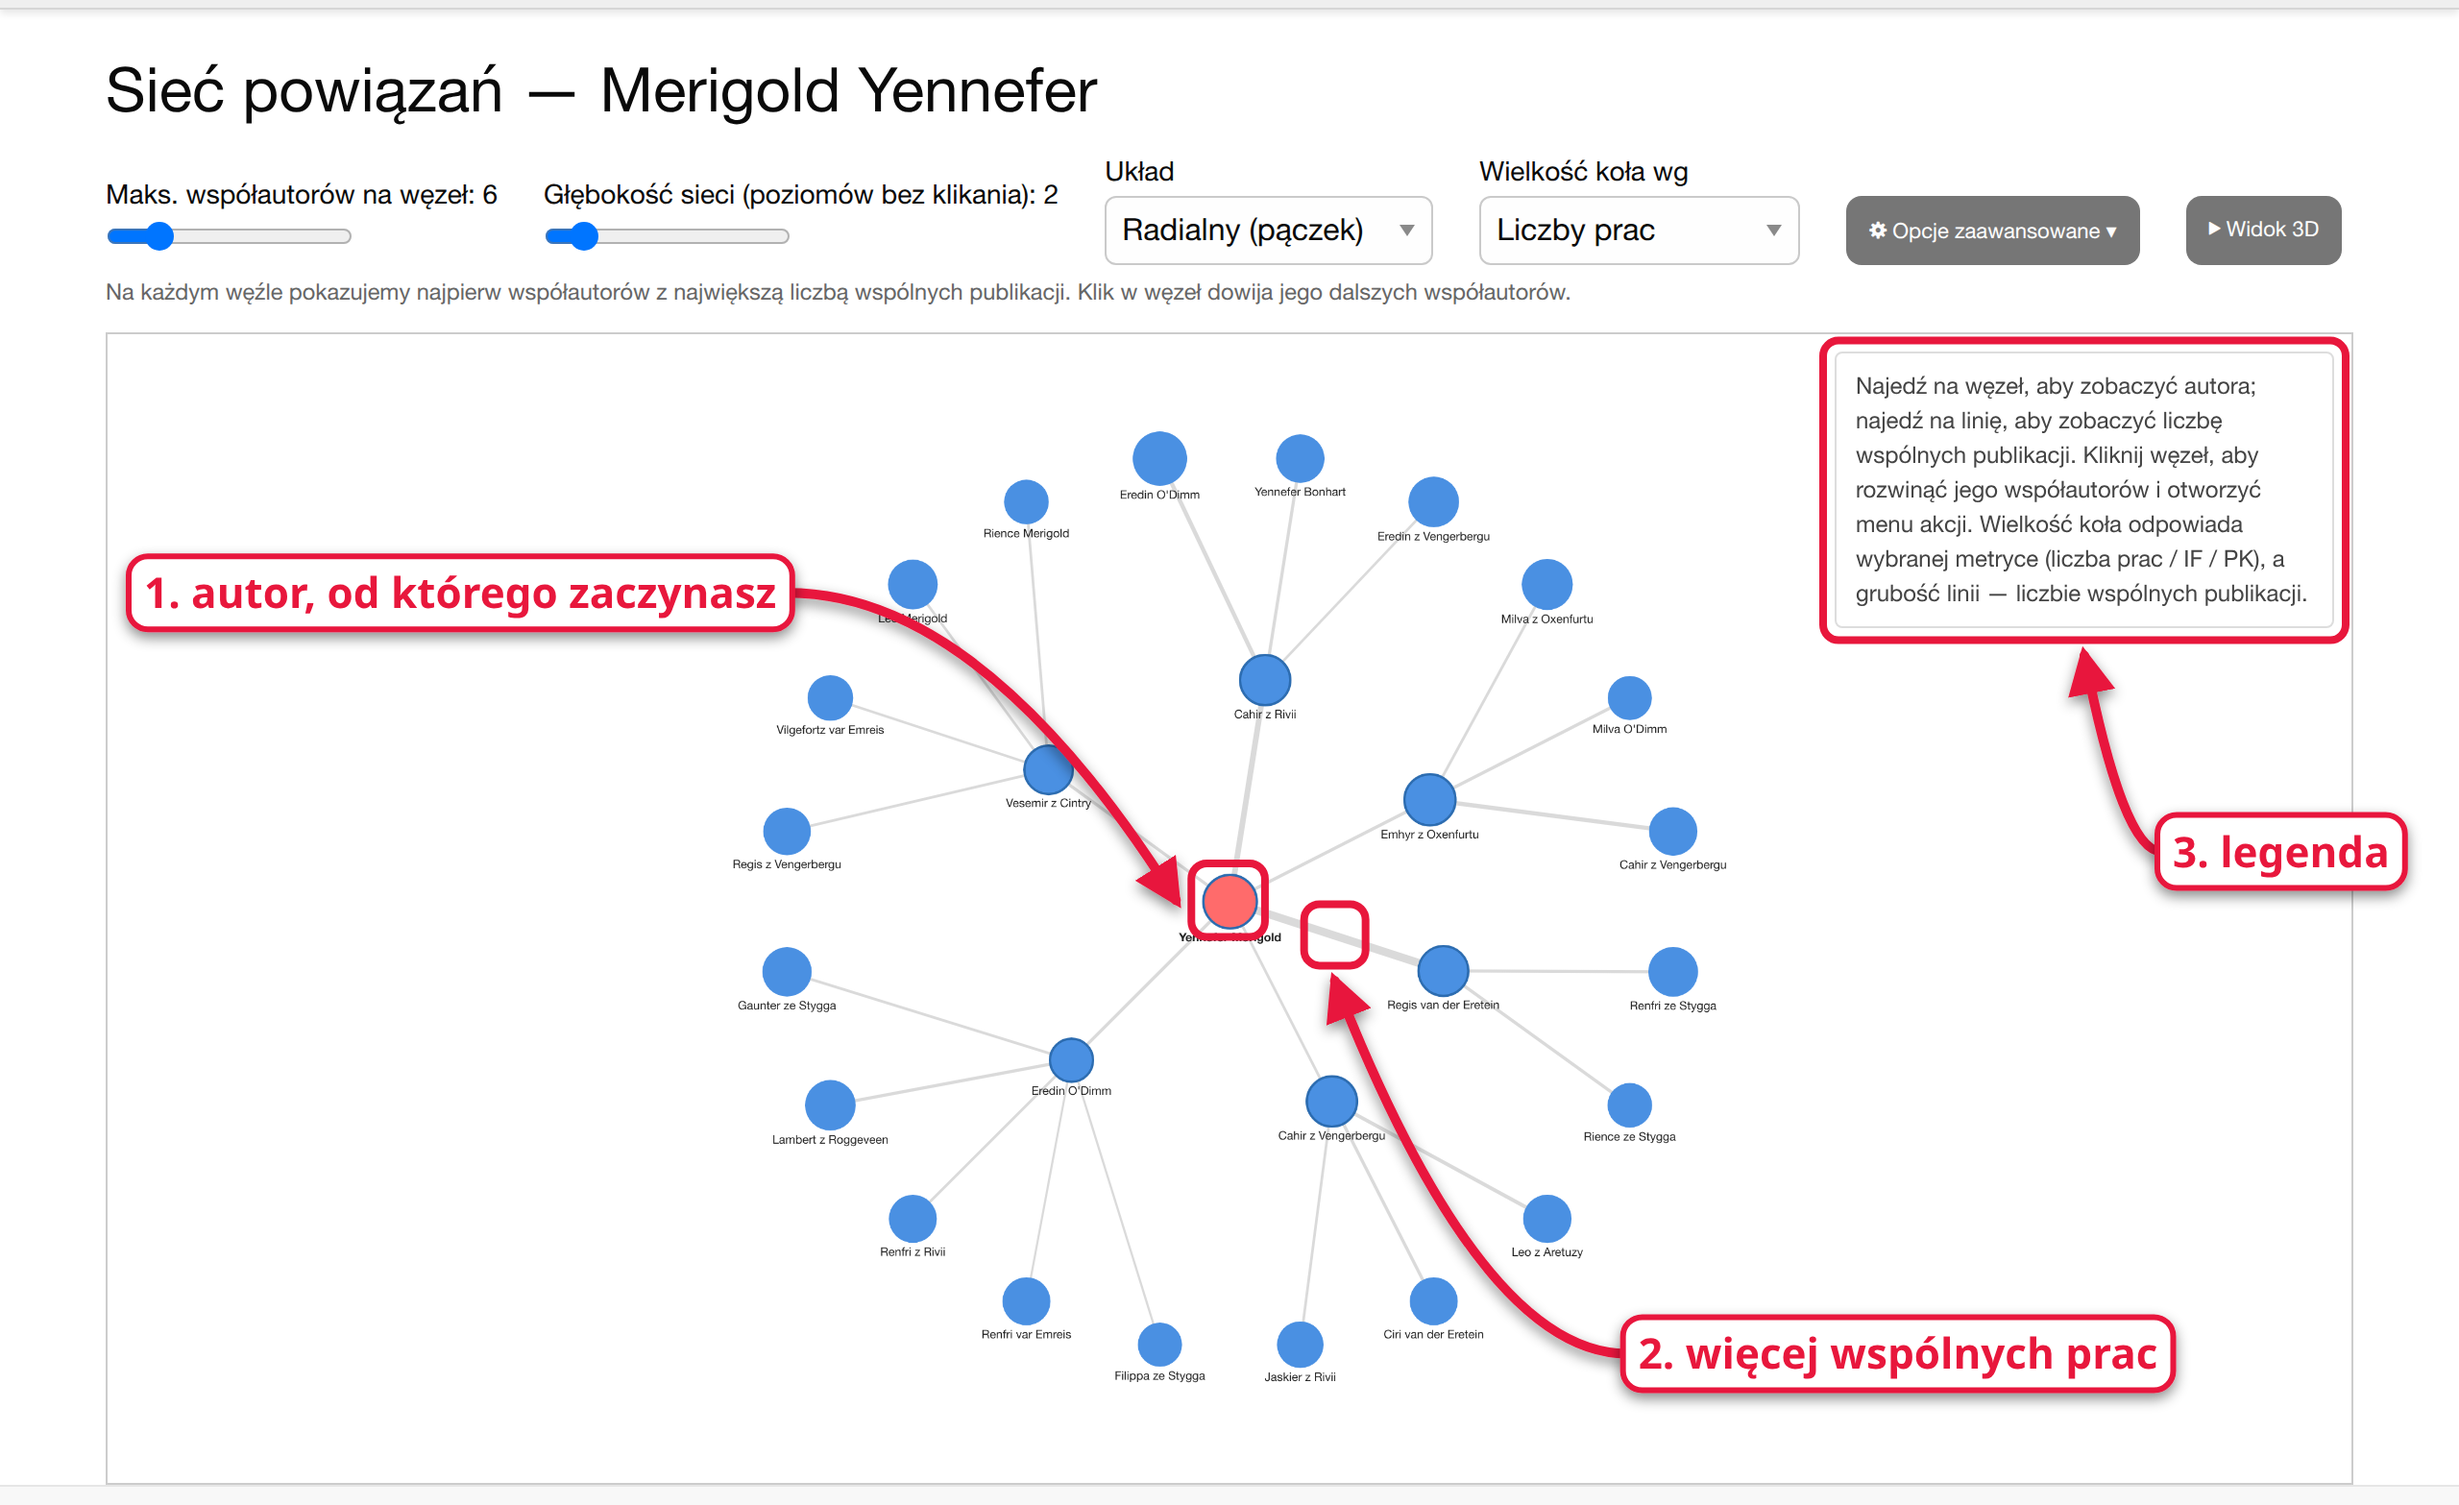
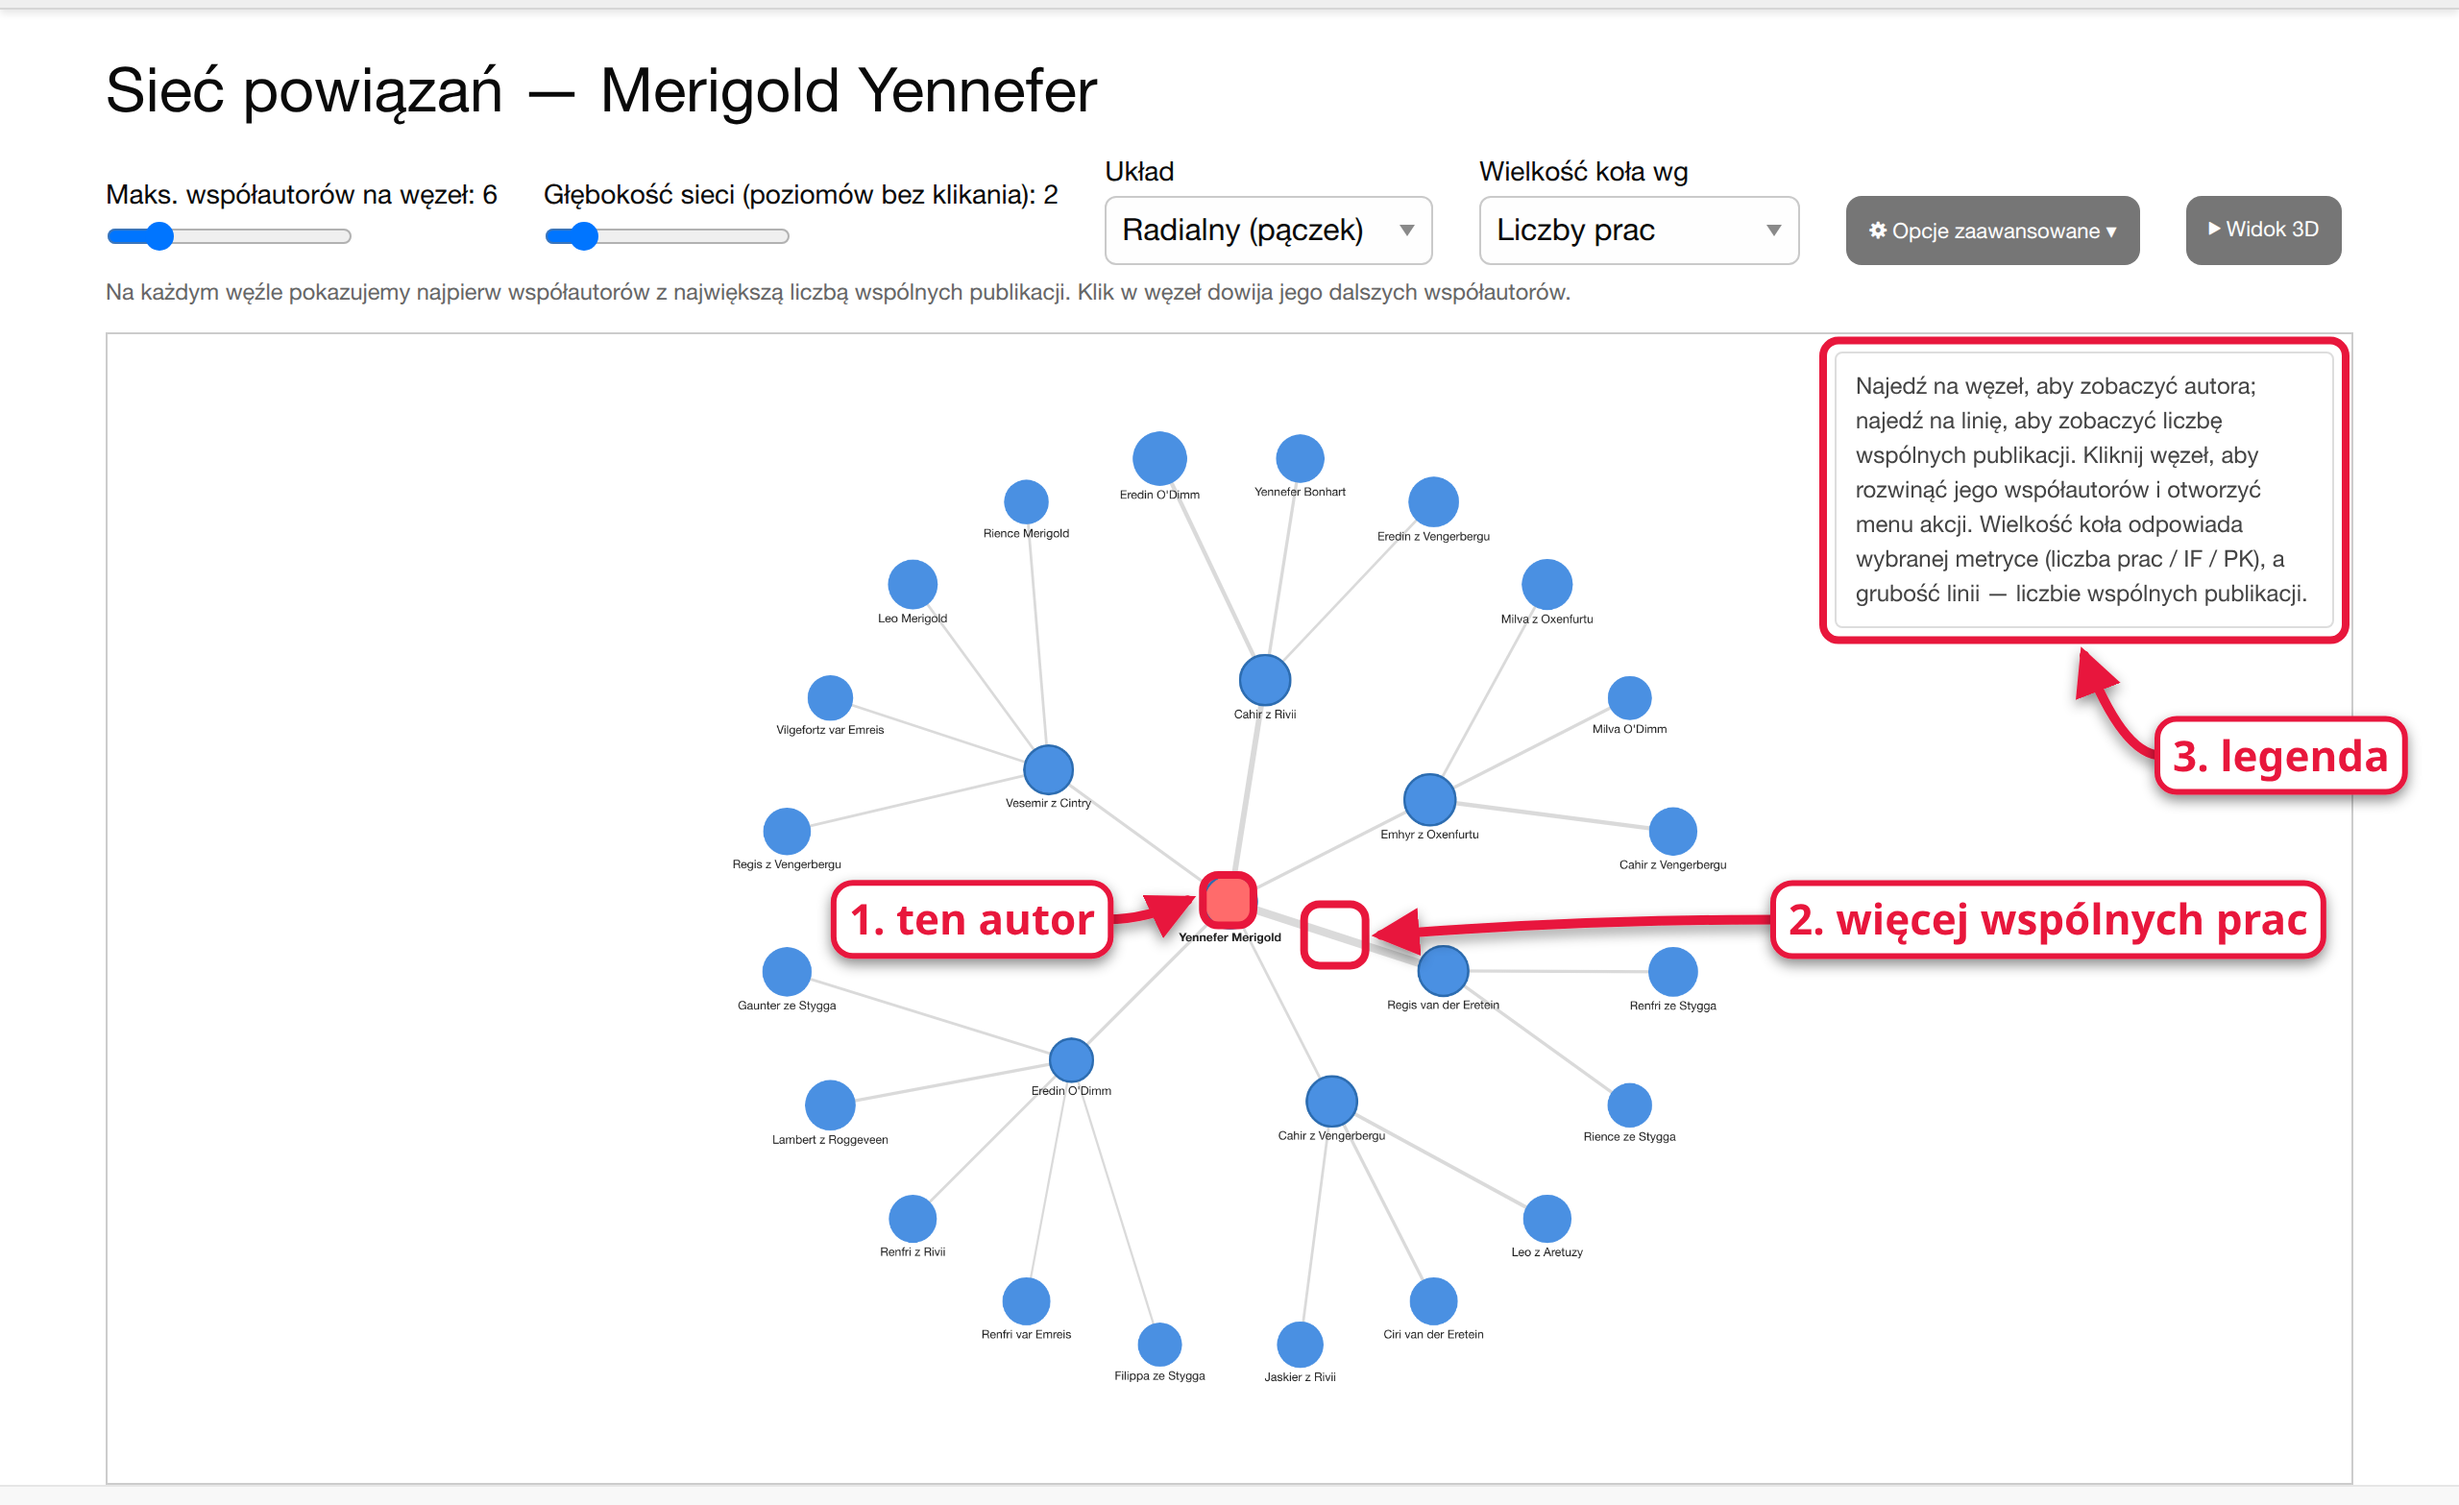
docs: tidy annotations on the co-author network screenshots
03: short labels beside the centre node and the thick line, the centre box
no longer hides the name, the legend label has room. 09: labels sit next to
the "Widok 2D" button and the "Pokaż nazwiska" checkbox with short arrows
that cross no text.

diff --git a/bin/docs-screenshots.py b/bin/docs-screenshots.py
@@ -6565,31 +6565,38 @@ def powiazania_autorow(page: Page, base: str, out: Path) -> None:
     czekaj_na_graf(page)
     centrum = AUTOR_NOWY_ROK
     silny = page.evaluate(NAJSILNIEJSZY_JS, centrum)
-    page.evaluate(PIN_CY_JS, ["kb-centrum", "node", centrum, 0, -2])
+    # pad -8: the box hugs the inside of the node, so the name under it stays readable
+    page.evaluate(PIN_CY_JS, ["kb-centrum", "node", centrum, 0, -8])
     page.evaluate(PIN_CY_JS, ["kb-krawedz", "edge", centrum, silny, 6])
+    k = page_box(page, "#kb-krawedz")
+    graf = page_box(page, "#graf-wrapper")
     mark(
         page,
         [
             {
+                # short label in the gap left of the centre, right of the
+                # "Gaunter ze Stygga" node; nearly level arrow
                 "sel": "#kb-centrum",
                 "arrow": "left",
-                "label": "1. autor, od którego zaczynasz",
-                "dx": -100,
-                "dy": -200,
+                "label": "1. ten autor",
+                "dx": 60,
+                "dy": -30,
             },
             {
+                # label in the empty band right of the graph, arrow passes
+                # between the node labels
                 "sel": "#kb-krawedz",
-                "arrow": "below",
+                "arrow": "right",
                 "label": "2. więcej wspólnych prac",
-                "dx": 92,
-                "dy": 92,
+                "dx": graf["x"] + graf["width"] - 300 - (k["x"] + k["width"] + 6 + 110),
+                "dy": -48,
             },
             {
                 "sel": "#graf-legenda",
                 "arrow": "below",
                 "label": "3. legenda",
                 "dx": -20,
-                "dy": 0,
+                "dy": -50,
             },
         ],
     )
@@ -6789,22 +6796,24 @@ def powiazania_autorow(page: Page, base: str, out: Path) -> None:
         page,
         [
             {
+                # label on the "Widok 2D" row, right below the checkbox:
+                # a short hook up to it, clear of "Etykiety" and the help text
                 "sel": "label:has(#siec3d-etykiety-chk)",
                 "arrow": "below",
-                "label": "nazwiska najważniejszych autorów",
-                "dx": -380,
-                "dy": 30,
+                "label": "nazwiska 25 najważniejszych",
+                "dx": -20,
+                "dy": -86,
             },
             {
                 "sel": "a[href$='/powiazania/'].button",
-                "arrow": "below",
+                "arrow": "right",
                 "label": "powrót do 2D",
-                "dx": -20,
-                "dy": 40,
+                "dx": -60,
+                "dy": -40,
             },
         ],
     )
-    shot(page, out / "09-widok-3d.png", 110, 760)
+    shot(page, out / "09-widok-3d.png", 100, 770)
 
 
 def zgloszenie_publikacji(page: Page, base: str, out: Path) -> None:
